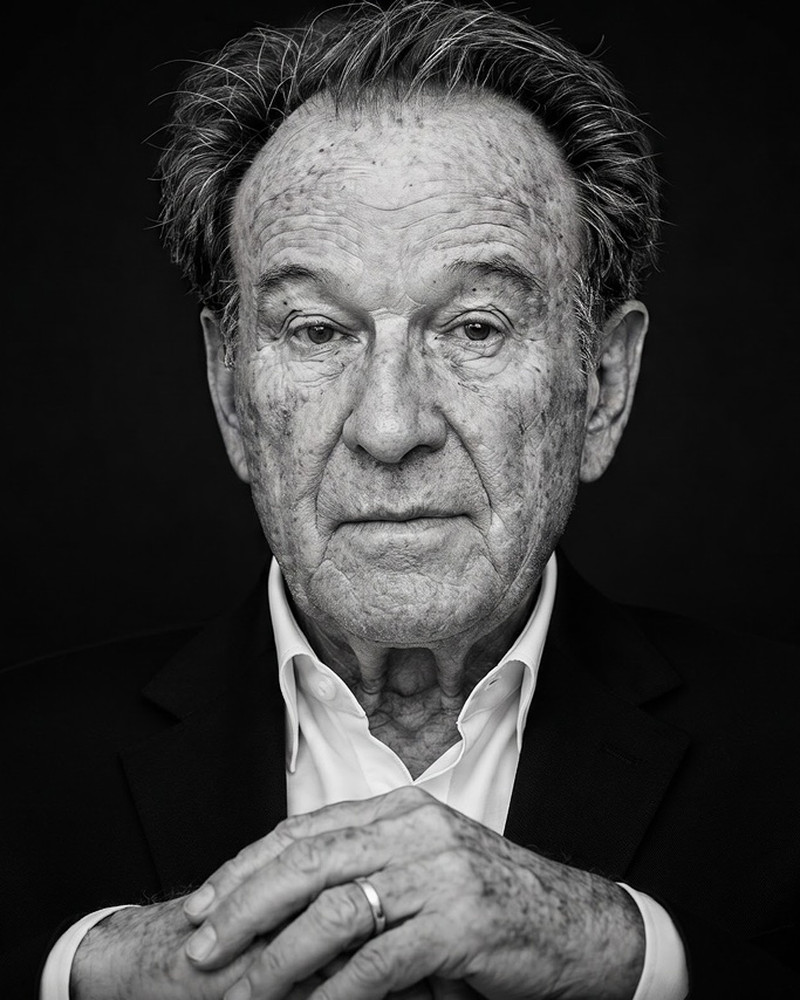
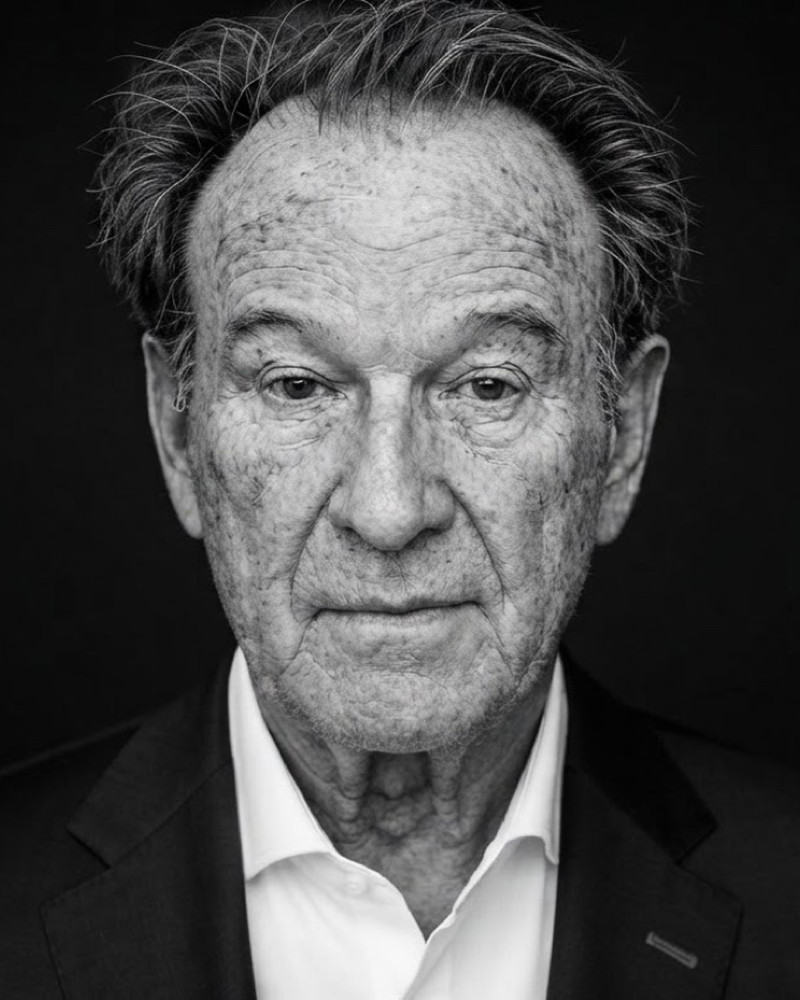
Startseite: Porträts getauscht, Erich-Bild neu, etwas kleiner

diff --git a/css/style.css b/css/style.css
@@ -344,9 +344,9 @@ mark.placeholder,.placeholder{background:none;border:0;color:var(--slate);paddin
 
 
 /* Hero with portraits */
-.hero--portraits{background:var(--ink);flex-direction:column;align-items:stretch;justify-content:flex-end;min-height:100svh}
+.hero--portraits{background:var(--ink);flex-direction:column;align-items:stretch;justify-content:flex-start;min-height:100svh}
 .hero--portraits::before{display:none}
-.hero-portraits{display:grid;grid-template-columns:1fr 1fr;gap:clamp(.45rem,1vw,.9rem);padding:var(--head) var(--gutter) 0;flex:1 1 auto;min-height:clamp(24rem,64vh,42rem)}
+.hero-portraits{display:grid;grid-template-columns:1fr 1fr;gap:clamp(.4rem,.9vw,.8rem);width:72%;max-width:58rem;margin-inline:auto;padding:calc(var(--head) + .35rem) var(--gutter) 0;flex:0 1 auto;min-height:clamp(18rem,48vh,31rem)}
 .hero-portrait{margin:0;position:relative;background:#000;overflow:hidden;min-height:0}
 .hero-portrait picture,.hero-portrait img{width:100%;height:100%;display:block}
 .hero-portrait img{object-fit:cover;object-position:center 16%}
@@ -354,13 +354,13 @@ mark.placeholder,.placeholder{background:none;border:0;color:var(--slate);paddin
 .hero-portrait strong{display:block;font-family:var(--serif);font-weight:400;font-size:clamp(1.15rem,2vw,1.6rem);letter-spacing:.01em;margin:0 0 .2rem;color:var(--bg)}
 .hero-portrait .role{display:block;font-family:var(--sans);font-size:.68rem;font-weight:500;letter-spacing:.18em;text-transform:uppercase;color:var(--accent-light)}
 .hero-portrait .note{display:block;margin-top:.45rem;font-size:.78rem;line-height:1.4;letter-spacing:.01em;color:var(--mist);max-width:22em;text-transform:none;font-weight:400}
-.hero--portraits .wrap{padding-block:clamp(2.1rem,5vw,3.4rem) clamp(3rem,7vw,5.25rem)}
+.hero--portraits .wrap{padding-block:clamp(1.35rem,3.2vw,2.25rem) clamp(3rem,7vw,5.25rem)}
 .hero--portraits .hero-text{max-width:48rem}
 .hero--portraits .display{font-size:clamp(2.6rem,6.6vw,5.8rem)}
 .hero .cta{display:inline-flex;align-items:center;font-size:.875rem;font-weight:500;letter-spacing:.08em;color:var(--bg);text-decoration:none;padding:.85rem 1.35rem;border:1px solid var(--accent-light);transition:background .5s var(--ease),border-color .5s var(--ease),color .5s var(--ease)}
 .hero .cta:hover,.hero .cta:focus-visible{background:var(--accent);border-color:var(--accent);color:var(--bg)}
 @media (max-width:900px){
-  .hero-portraits{grid-template-columns:1fr;min-height:0;gap:.55rem}
-  .hero-portrait{min-height:clamp(22rem,88vw,34rem)}
+  .hero-portraits{grid-template-columns:1fr;width:75%;min-height:0;gap:.5rem}
+  .hero-portrait{min-height:clamp(16rem,68vw,24rem)}
 }
 @media (prefers-reduced-motion:reduce){.hero .cta{transition-duration:.01ms}}

diff --git a/en/index.html b/en/index.html
@@ -47,23 +47,23 @@
 <div class="hero-portraits">
 <figure class="hero-portrait reveal">
 <picture>
-<source type="image/webp" srcset="../assets/img/erich-stawicki-800.webp 800w" sizes="(min-width:901px) 50vw, 100vw">
-<img src="../assets/img/erich-stawicki-800.jpg" srcset="../assets/img/erich-stawicki-800.jpg 800w" sizes="(min-width:901px) 50vw, 100vw" width="800" height="1000" alt="Portrait of Erich A. M. Stawicki" fetchpriority="high">
+<source type="image/webp" srcset="../assets/img/thomas-malyska-800.webp 800w" sizes="(min-width:901px) 36vw, 78vw">
+<img src="../assets/img/thomas-malyska-800.jpg" srcset="../assets/img/thomas-malyska-800.jpg 800w" sizes="(min-width:901px) 36vw, 78vw" width="800" height="1000" alt="Portrait of Thomas Malyska" fetchpriority="high">
+</picture>
+<figcaption>
+<strong>Thomas Malyska</strong>
+<span class="role">CEO TTC Ventures</span>
+</figcaption>
+</figure>
+<figure class="hero-portrait reveal d1">
+<picture>
+<source type="image/webp" srcset="../assets/img/erich-stawicki-800.webp 800w" sizes="(min-width:901px) 36vw, 78vw">
+<img src="../assets/img/erich-stawicki-800.jpg" srcset="../assets/img/erich-stawicki-800.jpg 800w" sizes="(min-width:901px) 36vw, 78vw" width="800" height="1000" alt="Portrait of Erich A. M. Stawicki" fetchpriority="high">
 </picture>
 <figcaption>
 <strong>Erich A. M. Stawicki</strong>
 <span class="role">Chairman of the Advisory Board</span>
 <span class="note">50 years of brand strategy, market communication and sales</span>
-</figcaption>
-</figure>
-<figure class="hero-portrait reveal d1">
-<picture>
-<source type="image/webp" srcset="../assets/img/thomas-malyska-800.webp 800w" sizes="(min-width:901px) 50vw, 100vw">
-<img src="../assets/img/thomas-malyska-800.jpg" srcset="../assets/img/thomas-malyska-800.jpg 800w" sizes="(min-width:901px) 50vw, 100vw" width="800" height="1000" alt="Portrait of Thomas Malyska" fetchpriority="high">
-</picture>
-<figcaption>
-<strong>Thomas Malyska</strong>
-<span class="role">CEO TTC Ventures</span>
 </figcaption>
 </figure>
 </div>

diff --git a/index.html b/index.html
@@ -47,23 +47,23 @@
 <div class="hero-portraits">
 <figure class="hero-portrait reveal">
 <picture>
-<source type="image/webp" srcset="assets/img/erich-stawicki-800.webp 800w" sizes="(min-width:901px) 50vw, 100vw">
-<img src="assets/img/erich-stawicki-800.jpg" srcset="assets/img/erich-stawicki-800.jpg 800w" sizes="(min-width:901px) 50vw, 100vw" width="800" height="1000" alt="Porträt von Erich A. M. Stawicki" fetchpriority="high">
+<source type="image/webp" srcset="assets/img/thomas-malyska-800.webp 800w" sizes="(min-width:901px) 36vw, 78vw">
+<img src="assets/img/thomas-malyska-800.jpg" srcset="assets/img/thomas-malyska-800.jpg 800w" sizes="(min-width:901px) 36vw, 78vw" width="800" height="1000" alt="Porträt von Thomas Malyska" fetchpriority="high">
+</picture>
+<figcaption>
+<strong>Thomas Malyska</strong>
+<span class="role">CEO TTC Ventures</span>
+</figcaption>
+</figure>
+<figure class="hero-portrait reveal d1">
+<picture>
+<source type="image/webp" srcset="assets/img/erich-stawicki-800.webp 800w" sizes="(min-width:901px) 36vw, 78vw">
+<img src="assets/img/erich-stawicki-800.jpg" srcset="assets/img/erich-stawicki-800.jpg 800w" sizes="(min-width:901px) 36vw, 78vw" width="800" height="1000" alt="Porträt von Erich A. M. Stawicki" fetchpriority="high">
 </picture>
 <figcaption>
 <strong>Erich A. M. Stawicki</strong>
 <span class="role">Beiratsvorsitzender</span>
 <span class="note">50 Jahre Markenstrategie, Marktkommunikation und Vertrieb</span>
-</figcaption>
-</figure>
-<figure class="hero-portrait reveal d1">
-<picture>
-<source type="image/webp" srcset="assets/img/thomas-malyska-800.webp 800w" sizes="(min-width:901px) 50vw, 100vw">
-<img src="assets/img/thomas-malyska-800.jpg" srcset="assets/img/thomas-malyska-800.jpg 800w" sizes="(min-width:901px) 50vw, 100vw" width="800" height="1000" alt="Porträt von Thomas Malyska" fetchpriority="high">
-</picture>
-<figcaption>
-<strong>Thomas Malyska</strong>
-<span class="role">CEO TTC Ventures</span>
 </figcaption>
 </figure>
 </div>
